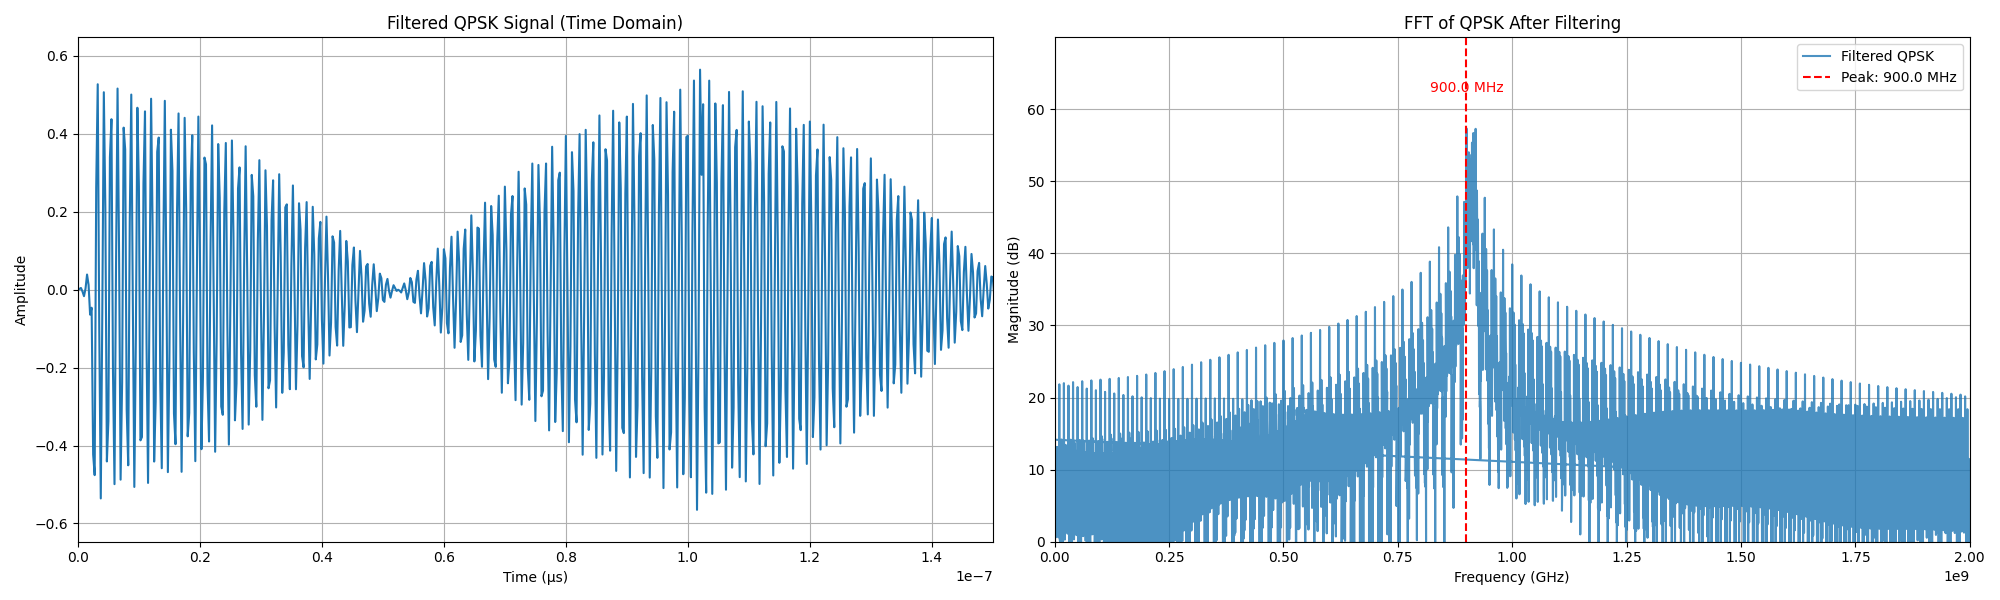
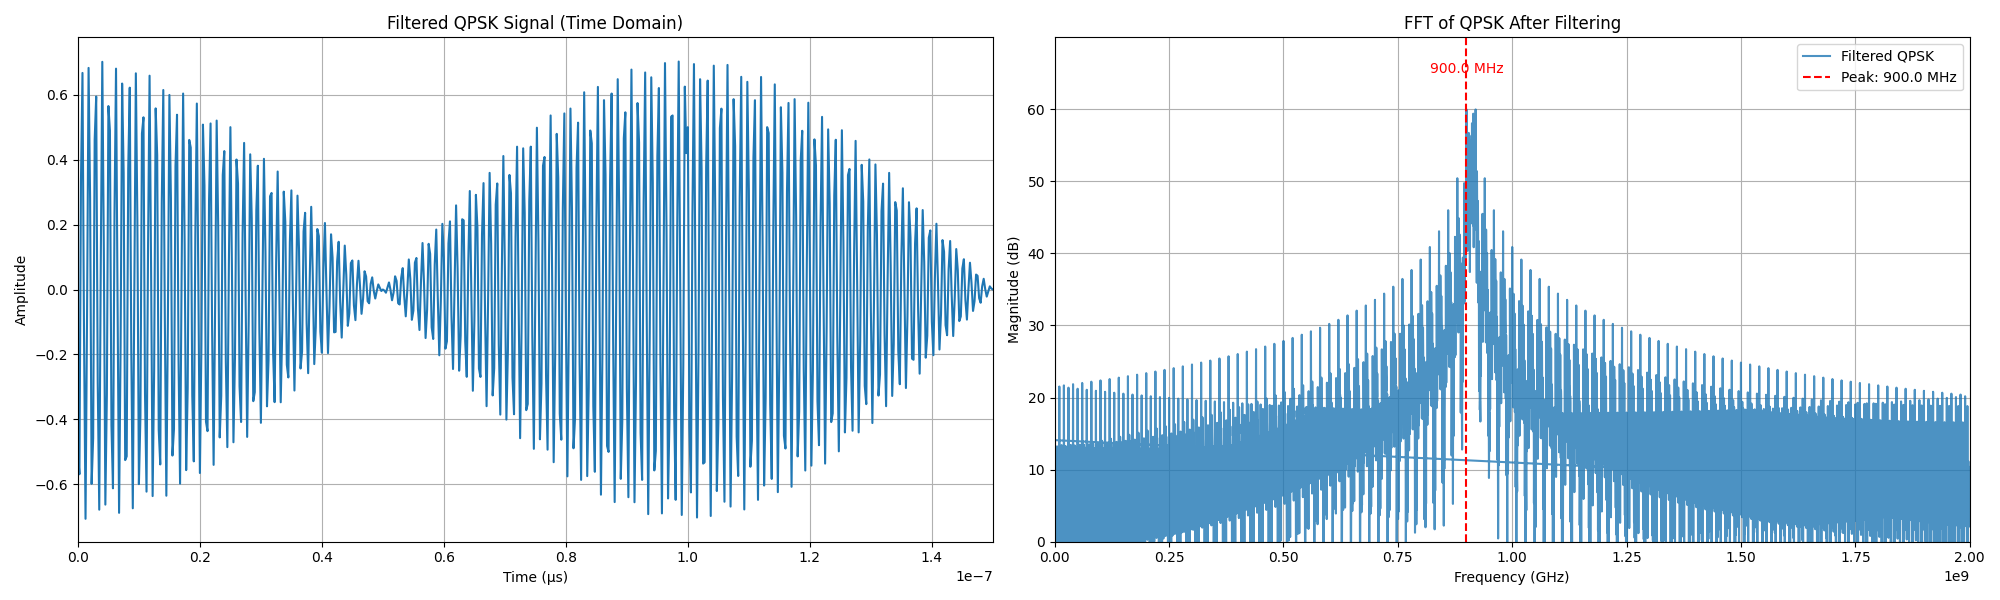
bypassing filtered_qpsk

diff --git a/Phys_Sim/Repeater.py b/Phys_Sim/Repeater.py
@@ -42,22 +42,24 @@ class Repeater:
         Returns:
         - The filtered signal.
         """
-        # Implement filtering logic here
-        from scipy import signal
-        freq_low = self.desired_frequency - 50e6
-        freq_high = self.desired_frequency +50e6
-
-        #we need to normalize these frequencies by sampling rate/2
-        nyquist = self.sampling_frequency/2
-        low = freq_low/nyquist
-        high =freq_high/nyquist
-        #debug print(low, high)
-        taps = signal.firwin(order+1,[low, high])
-
-        # Apply filter
-        filtered_sig = signal.lfilter(taps, 1.0, mixed_qpsk)  # filtered signal
+        #don't apply filter
         
-        return filtered_sig
+        # # Implement filtering logic here
+        # from scipy import signal
+        # freq_low = self.desired_frequency - 150e6
+        # freq_high = self.desired_frequency + 150e6
+
+        # #we need to normalize these frequencies by sampling rate/2
+        # nyquist = self.sampling_frequency/2
+        # low = freq_low/nyquist
+        # high =freq_high/nyquist
+        # #debug print(low, high)
+        # taps = signal.firwin(order+1,[low, high])
+
+        # # Apply filter
+        # filtered_sig = signal.lfilter(taps, 1.0, mixed_qpsk)  # filtered signal
+        
+        return mixed_qpsk
 
     def amplify(self, input_signal):
         """
